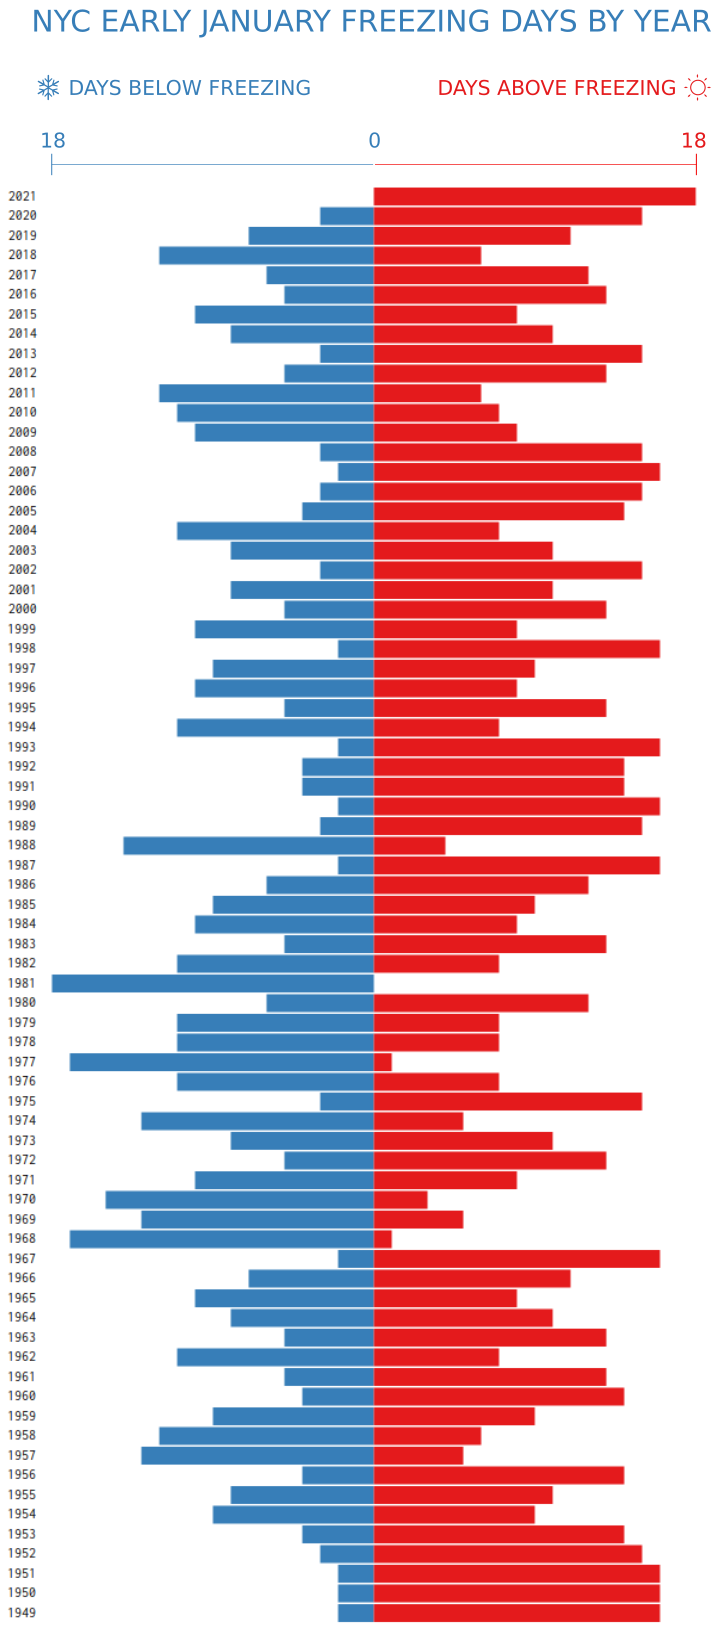
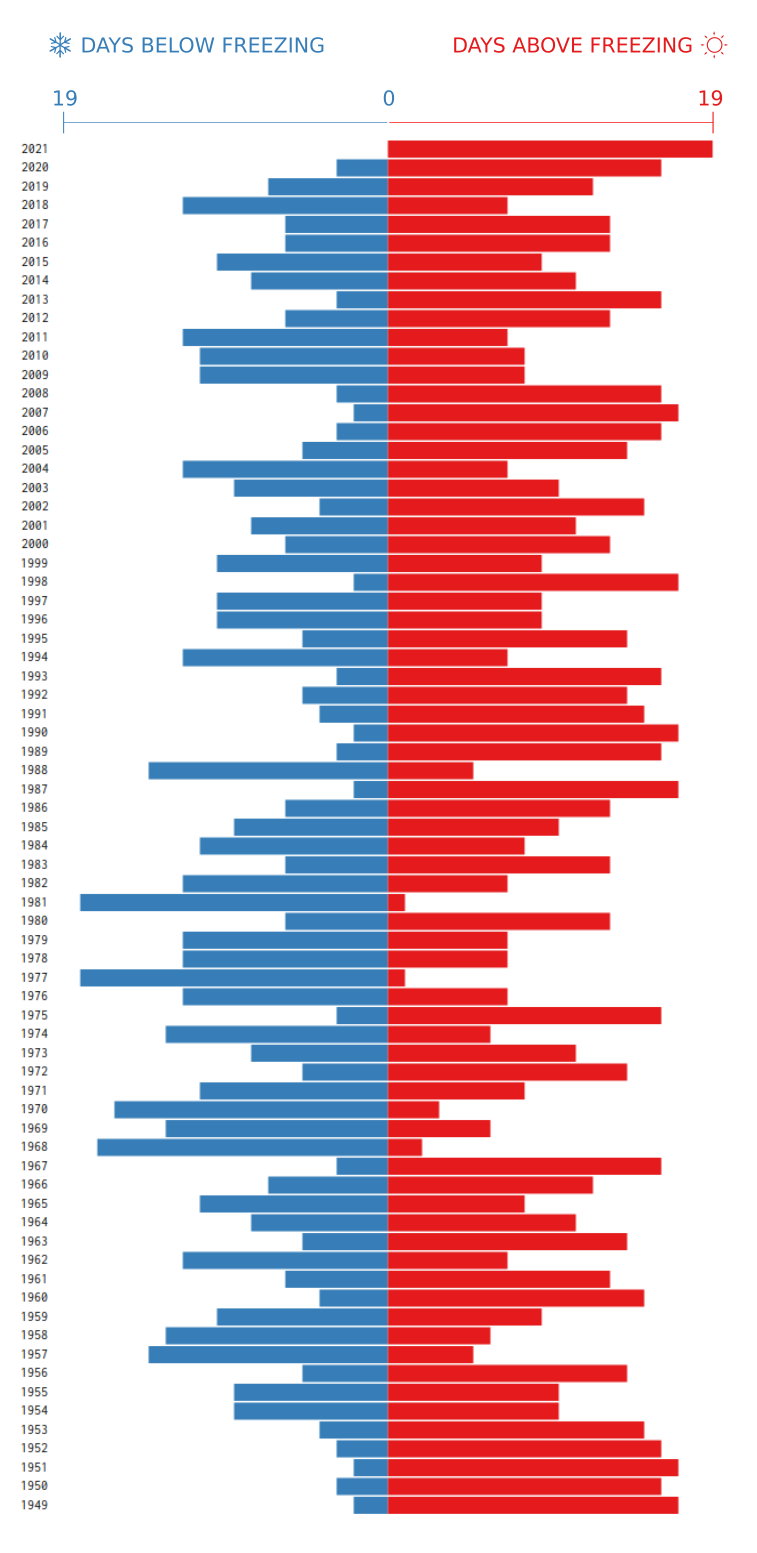
make Jan 19th updates to weather post

diff --git a/_posts/2021-01-19-nyc-mild-winter.md b/_posts/2021-01-19-nyc-mild-winter.md
@@ -3,14 +3,15 @@ layout: post
 title: Visualization - An Unusually Mild NYC Winter
 comments: true
 image: https://jonathanmann.github.io/public/img/nyc_mild_header.png
-excerpt: Over the past weekend, I was happy the weather was warm enough to enjoy spending some time outside, but it started me thinking... it's been pretty warm this year... is this unusual? As it turns out, there hasn't been a single day where the average temperature was below freezing so far this year in NYC. Surely this must happen from time to time. I decided to check the historical data for every year starting from 1949 for the period of January 1st - 18th ... lo and behold, it has never happened in the entire data set!
+excerpt: Over the past weekend, I was happy the weather was warm enough to enjoy spending some time outside, but it started me thinking... it's been pretty warm this year... is this unusual? As it turns out, there hasn't been a single day where the average temperature was below freezing so far this year in NYC. Surely this must happen from time to time. I decided to check the historical data for every year starting from 1949 for the period of January 1st - 19th ... lo and behold, it has never happened in the entire data set until this year!
 ---
-Over the past weekend, I was happy the weather was warm enough to enjoy spending some time outside, but it started me thinking... it's been pretty warm this year... is this unusual? As it turns out, there hasn't been a single day where the average temperature was below freezing so far this year in NYC. Surely this must happen from time to time. I decided to check the historical data for every year starting from 1949 for the period of January 1st - 18th ... lo and behold, it has never happened in the entire data set! Inspired by Mike Bostock's [D3 implementation of a diverging barchart](https://observablehq.com/@d3/diverging-bar-chart), I set out to create a similar visualization. I'm comfortable with D3 and use it pretty frequently at work, but found it was overkill for what I wanted to do in this post, so I decided to use the much more streamlined [SVG.js](https://svgjs.com/docs/3.0/). If you want to reproduce my visualization, I'll walk you through the process below the chart. You can find the code and data for this post [here](https://github.com/jonathanmann/blog_examples/tree/master/Javascript/warm_winter).
+Over the past weekend, I was happy the weather was warm enough to enjoy spending some time outside, but it started me thinking... it's been pretty warm this year... is this unusual? As it turns out, there hasn't been a single day where the average temperature was below freezing so far this year in NYC. Surely this must happen from time to time. I decided to check the historical data for every year starting from 1949 for the period of January 1st - 19th ... lo and behold, it has never happened in the entire data set until this year! Inspired by Mike Bostock's [D3 implementation of a diverging barchart](https://observablehq.com/@d3/diverging-bar-chart), I set out to create a similar visualization. I'm comfortable with D3 and use it pretty frequently at work, but found it was overkill for what I wanted to do in this post, so I decided to use the much more streamlined [SVG.js](https://svgjs.com/docs/3.0/). If you want to reproduce my visualization, I'll walk you through the process below the chart. You can find the code and data for this post [here](https://github.com/jonathanmann/blog_examples/tree/master/Javascript/warm_winter).
 
+### NYC January 1-19 Freezing Days by Year 
 ![MILD](https://jonathanmann.github.io/public/img/nyc_mild_full.png)
 
 ### Data Collection
-This is probably the most annoying part. You might be able to pull the data from [NOAA](https://www.ncdc.noaa.gov/cdo-web/), but the website crashed every time I tried to pull the history. I ended up putting the history together from a mix-mash of sources including recent data from [weather underground](https://www.wunderground.com/history/monthly/us/ny/new-york-city/KLGA/date/2021-1). Just get the data in the format below and the rest will be easy. If all else fails, just download a copy of my [1949 - present january summary data](https://github.com/jonathanmann/blog_examples/blob/master/Javascript/warm_winter/nyc_jan.csv). After you get everything, it should look like the table below:
+This is probably the most annoying part. You might be able to pull the data from [NOAA](https://www.ncdc.noaa.gov/cdo-web/search), but the website crashed every time I tried to pull the history. I ended up putting the history together from a mix-mash of sources including recent data from [weather underground](https://www.wunderground.com/history/monthly/us/ny/new-york-city/KLGA/date/2021-1). Just get the data in the format below and the rest will be easy. If all else fails, just download a copy of my [1949 - present january summary data](https://github.com/jonathanmann/blog_examples/blob/master/Javascript/warm_winter/nyc_jan.csv). After you get everything, it should look like the table below:
 
 | Date | MaxTempF | MeanTempF | MinTempF|
 | ---- | -------- | --------- | ------- |
@@ -19,10 +20,10 @@ This is probably the most annoying part. You might be able to pull the data from
 1949-01-03 | 39 | 34 | 28 |
 
 ### Data Wrangling
-Now that you have the data, use the following bash commands to create a dataset that only has the first 18 days of January. This will work even if you have a data set that includes all months as long as the formatting is the same as above. The key is in the regular expression match on the second line that essentially says, return only January data "-01-" where the day is either the first through the nineth "0\[1-9\]" or the tenth through the eighteenth "1\[0-8\]".  
+Now that you have the data, use the following bash commands to create a data set that only has the first 19 days of January for each year. This will work even if you have a data set that includes all months as long as the formatting is the same as above. The key is in the regular expression match on the second line that essentially says, return only January data as determined by the "-01-" portion of the expresion and where the day is anything under 20 as determined by the "\[01\]\[0-9\]" portion of the expression.
 ```bash
   $ head -n1 nyc_jan.csv > nyc_early_jan.csv
-  $ egrep "\-01-(0[1-9]|1[0-8])" nyc_jan.csv >> nyc_early_jan.csv
+  $ egrep "\-01-[01][0-9]" nyc_jan.csv >> nyc_early_jan.csv
 ```
 
 Next, use python to quickly calculate the number of days below freezing summarized by each year:
@@ -33,15 +34,17 @@ w = pd.read_csv('nyc_early_jan.csv')
 w['freezing'] = w.MeanTempF.apply(lambda x: 1 if x < 32.0 else 0)
 w['year'] = w.Date.apply(lambda x: x[:4])
 w = w[['year','freezing']]
-w.groupby('year').agg('sum').to_csv('freezing_year.csv')
+w.groupby('year').agg('sum').reset_index().iloc[::-1].to_json('freezing_year.json',orient='records')
 ```
-The "MeanTempF" column represents the average temperature for a particular day. If the temperature was below 32, it gets classified as freezing acroding to the lambda function on the fourth line. The output "freezing_year.csv", can easily be converted to JSON for visualization with the code below.
+The "MeanTempF" column represents the average temperature for a particular day. If the temperature was below 32, it gets classified as freezing acroding to the lambda function on the fourth line. The output "freezing_year.json", can be used as data in the visualization code below.
 
 ### Visualization
 Now, use SVG.js to build the chart using the javascript below:
 ```javascript
+var data = [] // replace with the data generated in the previous section
+
 // set constants
-const EARLY_JAN_DAYS = 18
+const EARLY_JAN_DAYS = 19
 const SIZE = 20
 const SPACER = SIZE + 2
 const OFFSET = 50
@@ -64,9 +67,9 @@ function chart(line,year,freeze){
   	.move(0,line*SPACER)
   	.font({ family: 'Inconsolata', size: 16 })
     .fill('black')
-    draw.rect(mild*SIZE, SIZE).y(line*SIZE).fill(WHITE).move(OFFSET ,line*SPACER)
-    draw.rect(freeze*SIZE, SIZE).y(line*SIZE).fill(BLUE).move(OFFSET + mild * SIZE,line*SPACER)
-    draw.rect(mild*SIZE, SIZE).y(line*SIZE).fill(RED).move(OFFSET + (freeze + mild) * SIZE,line*SPACER)
+  draw.rect(mild*SIZE,SIZE).y(line*SIZE).fill(WHITE).move(OFFSET,line*SPACER)
+  draw.rect(freeze*SIZE,SIZE).y(line*SIZE).fill(BLUE).move(OFFSET + mild * SIZE,line*SPACER)
+  draw.rect(mild*SIZE,SIZE).y(line*SIZE).fill(RED).move(OFFSET + (freeze + mild) * SIZE,line*SPACER)
 }
 ```
 If you want, you can use Inkscape to add some finishing touches as I did, but the diverging bar chart looks great!
